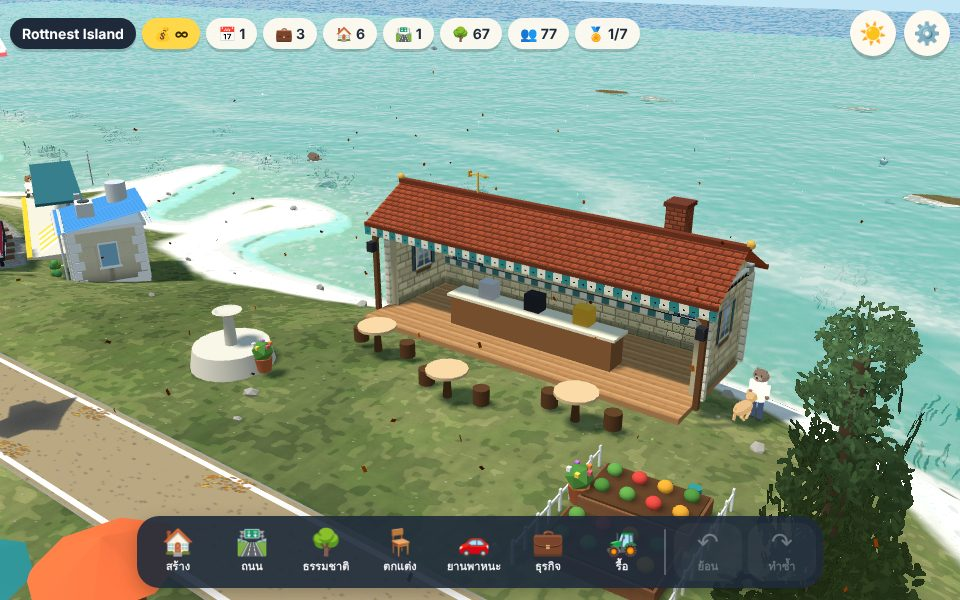
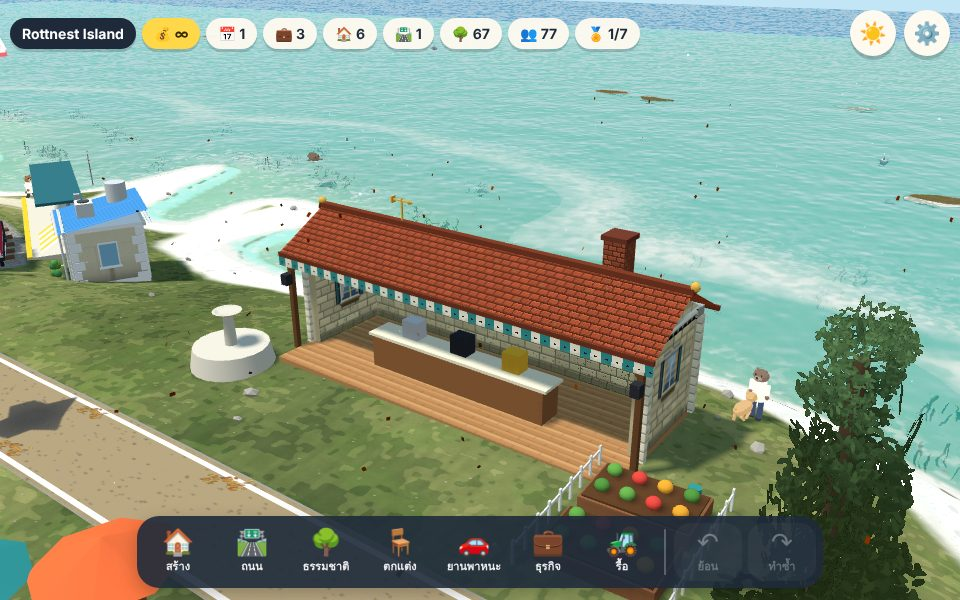
Island Builder café: sits on its own spot on land instead of hanging back over the water, and no tables or planters out front (Paul, 23 Nov 2026)

diff --git a/lib/engines/editor/master.html b/lib/engines/editor/master.html
@@ -1615,7 +1615,7 @@ return{PPM,wall,roof,pane,doorPane,glass,glowDiff,blocks,plaster,bricks,weatherb
    The game's café model (game part 017, CAFE_PX) as an engine, so the Island Builder draws the same café: pixel-kit walls with arched
    windows and shutters, tiled gable roof with chimney and weathervane, striped valance, posts with lanterns, corner planters, the roofed
    plank floor (no deck in front since 23 Nov 2026), the counter with its coffee machines, the QUOKKA CAFE sign and three tables.
-   KipCafe.create({style:'classic'|'cottage'|'riviera'|'ryokan'|'mykonos', gammaOut}) -> {g, style(name), tick(t)}. Needs PXK (pxkit.js).
+   KipCafe.create({style:'classic'|'cottage'|'riviera'|'ryokan'|'mykonos', gammaOut, front:false = no tables or planters out front}) -> {g, style(name), tick(t)}. Needs PXK (pxkit.js).
    Game units (café 10.4 wide), front (open side) faces +z, centre of the old deck at 0,0. */
 (function(){'use strict';
 function create(o){o=o||{};const GAMMA=!!o.gammaOut;const PXB_GLOW=[],PXB_LAMPS=[];
@@ -1684,7 +1684,7 @@ const CAFE_PX=(()=>{const g=new THREE.Group();const parts={};const mats=new Map(
     const tail=new THREE.Mesh(B(.04,.18,.16),gold);tail.position.x=-.3;arrow.add(tail);parts.vane=arrow;}
   // lanterns on the posts and two planters at the deck's front corners
   [-5.3,5.3].forEach(x=>{mesh(B(.22,.3,.22),new THREE.MeshLambertMaterial({color:'#2a2a30'}),x,2.25,RZ+RD/2+.08,{nc:1});const l=mesh(B(.15,.2,.15),new THREE.MeshBasicMaterial({color:'#e8d8a8'}),x,2.25,RZ+RD/2+.08,{nc:1});PXB_LAMPS.push(l);});
-  [[-4.85,3.2],[4.85,3.2]].forEach(([x,z])=>{mesh(new THREE.CylinderGeometry(.24,.18,.4,8),new THREE.MeshLambertMaterial({color:'#b8603a'}),x,.36,z);mesh(new THREE.IcosahedronGeometry(.3,0),new THREE.MeshLambertMaterial({color:'#4f8a3a',flatShading:true}),x,.74,z);
+  (o.front===false?[]:[[-4.85,3.2],[4.85,3.2]]).forEach(([x,z])=>{mesh(new THREE.CylinderGeometry(.24,.18,.4,8),new THREE.MeshLambertMaterial({color:'#b8603a'}),x,.36,z);mesh(new THREE.IcosahedronGeometry(.3,0),new THREE.MeshLambertMaterial({color:'#4f8a3a',flatShading:true}),x,.74,z);
     for(let k=0;k<5;k++)mesh(B(.09,.09,.09),new THREE.MeshLambertMaterial({color:['#e05a6a','#f4d04a','#f0f0f0','#c070e0','#f08a40'][k]}),x+Math.cos(k*1.3)*.22,.92,z+Math.sin(k*1.3)*.22,{nc:1});});
   function style(st){const M=build(st);
     parts.back.material=[M.top,M.top,M.top,M.top,M.back,M.outer];parts.sideL.material=[M.sideL,M.outS,M.top,M.top,M.top,M.top];parts.sideR.material=[M.outS,M.sideR,M.top,M.top,M.top,M.top];
@@ -1699,7 +1699,7 @@ const CAFE_PX=(()=>{const g=new THREE.Group();const parts={};const mats=new Map(
   {const c=document.createElement('canvas');c.width=192;c.height=40;const x=c.getContext('2d');x.fillStyle='#2c3b38';x.fillRect(0,0,192,40);x.fillStyle='#e2c27c';x.fillRect(0,0,192,2);x.fillRect(0,38,192,2);x.fillStyle='#f6ecd6';x.font='bold 24px monospace';x.textAlign='center';x.textBaseline='middle';x.fillText('QUOKKA CAFE',96,21);
     mesh(new THREE.PlaneGeometry(3.6,.75),new THREE.MeshLambertMaterial({map:ctex(c)}),0,2.4,-4.68,{nc:1});}
   const tbl=new THREE.MeshLambertMaterial({color:'#d9b98a'}),leg=new THREE.MeshLambertMaterial({color:'#5a3a22'});
-  [[-3.2,.5],[0,1.4],[3.2,.5]].forEach(([x,z])=>{mesh(new THREE.CylinderGeometry(.55,.55,.08,14),tbl,x,.92,z);mesh(new THREE.CylinderGeometry(.07,.12,.76,8),leg,x,.54,z);[-1,1].forEach(s=>mesh(new THREE.CylinderGeometry(.22,.22,.42,10),leg,x+s*.88,.37,z-.25));});
+  if(o.front!==false)[[-3.2,.5],[0,1.4],[3.2,.5]].forEach(([x,z])=>{mesh(new THREE.CylinderGeometry(.55,.55,.08,14),tbl,x,.92,z);mesh(new THREE.CylinderGeometry(.07,.12,.76,8),leg,x,.54,z);[-1,1].forEach(s=>mesh(new THREE.CylinderGeometry(.22,.22,.42,10),leg,x+s*.88,.37,z-.25));});
   return{g,parts,style,tick(t){if(parts.vane)parts.vane.rotation.y=Math.sin(t*.13)*.8+Math.sin(t*.47)*.15;}};})();
 CAFE_PX.style(o.style||'classic');
 /* a host with an sRGB output step (the builder, labs): plain colours are sRGB, so turn them linear once; the game (gammaOut) keeps them */
@@ -1946,7 +1946,7 @@ function addBld(b){const G=E.bld.build(Object.assign({style:b.s,x:b.x,z:b.z,rot:
    game (read from the game save of the slot the builder was opened from); the kit's stand-in stays only as the footprint for picking */
 function kipCafe(G){if(typeof KipCafe==='undefined')return;try{let st='classic';const sl=(location.search.match(/[?&]slot=(\d+)/)||[])[1];
     if(sl){try{const sv=JSON.parse(localStorage.getItem('quokka-cafe-slot-'+sl)||'null');if(sv&&sv.cafeStyle)st=sv.cafeStyle;}catch(e){}}
-    G.children.forEach(c=>{c.visible=false;});const C=KipCafe.create({style:st});C.g.scale.setScalar(.855/(G.scale.x||1));G.add(C.g);G.userData.kipCafe=C;}catch(e){console.warn('kip cafe',e);}}
+    G.children.forEach(c=>{c.visible=false;});const C=KipCafe.create({style:st,front:false});const k=.855/(G.scale.x||1);C.g.scale.setScalar(k);C.g.position.z=3.4*k;/* the building (z -5..-1.7 in the model) sits on the kit café's own spot, not behind it over the water (Paul, 23 Nov 2026); no tables out front */G.add(C.g);G.userData.kipCafe=C;}catch(e){console.warn('kip cafe',e);}}
 const LAYER_ENG={terr:'Ground',fol:'Plants',sky:'Sky',wl:'Sea life',road:'Roads',bld:'Buildings'};
 function applyLayers(k){const e=E[k],L=doc.layers[k];if(!e||!e.setLayer||!L)return;Object.keys(L).forEach(n=>e.setLayer(n,L[n]));}
 const ORDER=['road','terr','water','wl','props','bld','biz','fol','life','veh','rail'];/* trees after the buildings, so they keep clear of every footprint */

diff --git a/lib/engines/editor/player.html b/lib/engines/editor/player.html
@@ -1615,7 +1615,7 @@ return{PPM,wall,roof,pane,doorPane,glass,glowDiff,blocks,plaster,bricks,weatherb
    The game's café model (game part 017, CAFE_PX) as an engine, so the Island Builder draws the same café: pixel-kit walls with arched
    windows and shutters, tiled gable roof with chimney and weathervane, striped valance, posts with lanterns, corner planters, the roofed
    plank floor (no deck in front since 23 Nov 2026), the counter with its coffee machines, the QUOKKA CAFE sign and three tables.
-   KipCafe.create({style:'classic'|'cottage'|'riviera'|'ryokan'|'mykonos', gammaOut}) -> {g, style(name), tick(t)}. Needs PXK (pxkit.js).
+   KipCafe.create({style:'classic'|'cottage'|'riviera'|'ryokan'|'mykonos', gammaOut, front:false = no tables or planters out front}) -> {g, style(name), tick(t)}. Needs PXK (pxkit.js).
    Game units (café 10.4 wide), front (open side) faces +z, centre of the old deck at 0,0. */
 (function(){'use strict';
 function create(o){o=o||{};const GAMMA=!!o.gammaOut;const PXB_GLOW=[],PXB_LAMPS=[];
@@ -1684,7 +1684,7 @@ const CAFE_PX=(()=>{const g=new THREE.Group();const parts={};const mats=new Map(
     const tail=new THREE.Mesh(B(.04,.18,.16),gold);tail.position.x=-.3;arrow.add(tail);parts.vane=arrow;}
   // lanterns on the posts and two planters at the deck's front corners
   [-5.3,5.3].forEach(x=>{mesh(B(.22,.3,.22),new THREE.MeshLambertMaterial({color:'#2a2a30'}),x,2.25,RZ+RD/2+.08,{nc:1});const l=mesh(B(.15,.2,.15),new THREE.MeshBasicMaterial({color:'#e8d8a8'}),x,2.25,RZ+RD/2+.08,{nc:1});PXB_LAMPS.push(l);});
-  [[-4.85,3.2],[4.85,3.2]].forEach(([x,z])=>{mesh(new THREE.CylinderGeometry(.24,.18,.4,8),new THREE.MeshLambertMaterial({color:'#b8603a'}),x,.36,z);mesh(new THREE.IcosahedronGeometry(.3,0),new THREE.MeshLambertMaterial({color:'#4f8a3a',flatShading:true}),x,.74,z);
+  (o.front===false?[]:[[-4.85,3.2],[4.85,3.2]]).forEach(([x,z])=>{mesh(new THREE.CylinderGeometry(.24,.18,.4,8),new THREE.MeshLambertMaterial({color:'#b8603a'}),x,.36,z);mesh(new THREE.IcosahedronGeometry(.3,0),new THREE.MeshLambertMaterial({color:'#4f8a3a',flatShading:true}),x,.74,z);
     for(let k=0;k<5;k++)mesh(B(.09,.09,.09),new THREE.MeshLambertMaterial({color:['#e05a6a','#f4d04a','#f0f0f0','#c070e0','#f08a40'][k]}),x+Math.cos(k*1.3)*.22,.92,z+Math.sin(k*1.3)*.22,{nc:1});});
   function style(st){const M=build(st);
     parts.back.material=[M.top,M.top,M.top,M.top,M.back,M.outer];parts.sideL.material=[M.sideL,M.outS,M.top,M.top,M.top,M.top];parts.sideR.material=[M.outS,M.sideR,M.top,M.top,M.top,M.top];
@@ -1699,7 +1699,7 @@ const CAFE_PX=(()=>{const g=new THREE.Group();const parts={};const mats=new Map(
   {const c=document.createElement('canvas');c.width=192;c.height=40;const x=c.getContext('2d');x.fillStyle='#2c3b38';x.fillRect(0,0,192,40);x.fillStyle='#e2c27c';x.fillRect(0,0,192,2);x.fillRect(0,38,192,2);x.fillStyle='#f6ecd6';x.font='bold 24px monospace';x.textAlign='center';x.textBaseline='middle';x.fillText('QUOKKA CAFE',96,21);
     mesh(new THREE.PlaneGeometry(3.6,.75),new THREE.MeshLambertMaterial({map:ctex(c)}),0,2.4,-4.68,{nc:1});}
   const tbl=new THREE.MeshLambertMaterial({color:'#d9b98a'}),leg=new THREE.MeshLambertMaterial({color:'#5a3a22'});
-  [[-3.2,.5],[0,1.4],[3.2,.5]].forEach(([x,z])=>{mesh(new THREE.CylinderGeometry(.55,.55,.08,14),tbl,x,.92,z);mesh(new THREE.CylinderGeometry(.07,.12,.76,8),leg,x,.54,z);[-1,1].forEach(s=>mesh(new THREE.CylinderGeometry(.22,.22,.42,10),leg,x+s*.88,.37,z-.25));});
+  if(o.front!==false)[[-3.2,.5],[0,1.4],[3.2,.5]].forEach(([x,z])=>{mesh(new THREE.CylinderGeometry(.55,.55,.08,14),tbl,x,.92,z);mesh(new THREE.CylinderGeometry(.07,.12,.76,8),leg,x,.54,z);[-1,1].forEach(s=>mesh(new THREE.CylinderGeometry(.22,.22,.42,10),leg,x+s*.88,.37,z-.25));});
   return{g,parts,style,tick(t){if(parts.vane)parts.vane.rotation.y=Math.sin(t*.13)*.8+Math.sin(t*.47)*.15;}};})();
 CAFE_PX.style(o.style||'classic');
 /* a host with an sRGB output step (the builder, labs): plain colours are sRGB, so turn them linear once; the game (gammaOut) keeps them */
@@ -1946,7 +1946,7 @@ function addBld(b){const G=E.bld.build(Object.assign({style:b.s,x:b.x,z:b.z,rot:
    game (read from the game save of the slot the builder was opened from); the kit's stand-in stays only as the footprint for picking */
 function kipCafe(G){if(typeof KipCafe==='undefined')return;try{let st='classic';const sl=(location.search.match(/[?&]slot=(\d+)/)||[])[1];
     if(sl){try{const sv=JSON.parse(localStorage.getItem('quokka-cafe-slot-'+sl)||'null');if(sv&&sv.cafeStyle)st=sv.cafeStyle;}catch(e){}}
-    G.children.forEach(c=>{c.visible=false;});const C=KipCafe.create({style:st});C.g.scale.setScalar(.855/(G.scale.x||1));G.add(C.g);G.userData.kipCafe=C;}catch(e){console.warn('kip cafe',e);}}
+    G.children.forEach(c=>{c.visible=false;});const C=KipCafe.create({style:st,front:false});const k=.855/(G.scale.x||1);C.g.scale.setScalar(k);C.g.position.z=3.4*k;/* the building (z -5..-1.7 in the model) sits on the kit café's own spot, not behind it over the water (Paul, 23 Nov 2026); no tables out front */G.add(C.g);G.userData.kipCafe=C;}catch(e){console.warn('kip cafe',e);}}
 const LAYER_ENG={terr:'Ground',fol:'Plants',sky:'Sky',wl:'Sea life',road:'Roads',bld:'Buildings'};
 function applyLayers(k){const e=E[k],L=doc.layers[k];if(!e||!e.setLayer||!L)return;Object.keys(L).forEach(n=>e.setLayer(n,L[n]));}
 const ORDER=['road','terr','water','wl','props','bld','biz','fol','life','veh','rail'];/* trees after the buildings, so they keep clear of every footprint */

diff --git a/lib/engines/cafe/kipcafe.js b/lib/engines/cafe/kipcafe.js
@@ -2,7 +2,7 @@
    The game's café model (game part 017, CAFE_PX) as an engine, so the Island Builder draws the same café: pixel-kit walls with arched
    windows and shutters, tiled gable roof with chimney and weathervane, striped valance, posts with lanterns, corner planters, the roofed
    plank floor (no deck in front since 23 Nov 2026), the counter with its coffee machines, the QUOKKA CAFE sign and three tables.
-   KipCafe.create({style:'classic'|'cottage'|'riviera'|'ryokan'|'mykonos', gammaOut}) -> {g, style(name), tick(t)}. Needs PXK (pxkit.js).
+   KipCafe.create({style:'classic'|'cottage'|'riviera'|'ryokan'|'mykonos', gammaOut, front:false = no tables or planters out front}) -> {g, style(name), tick(t)}. Needs PXK (pxkit.js).
    Game units (café 10.4 wide), front (open side) faces +z, centre of the old deck at 0,0. */
 (function(){'use strict';
 function create(o){o=o||{};const GAMMA=!!o.gammaOut;const PXB_GLOW=[],PXB_LAMPS=[];
@@ -71,7 +71,7 @@ const CAFE_PX=(()=>{const g=new THREE.Group();const parts={};const mats=new Map(
     const tail=new THREE.Mesh(B(.04,.18,.16),gold);tail.position.x=-.3;arrow.add(tail);parts.vane=arrow;}
   // lanterns on the posts and two planters at the deck's front corners
   [-5.3,5.3].forEach(x=>{mesh(B(.22,.3,.22),new THREE.MeshLambertMaterial({color:'#2a2a30'}),x,2.25,RZ+RD/2+.08,{nc:1});const l=mesh(B(.15,.2,.15),new THREE.MeshBasicMaterial({color:'#e8d8a8'}),x,2.25,RZ+RD/2+.08,{nc:1});PXB_LAMPS.push(l);});
-  [[-4.85,3.2],[4.85,3.2]].forEach(([x,z])=>{mesh(new THREE.CylinderGeometry(.24,.18,.4,8),new THREE.MeshLambertMaterial({color:'#b8603a'}),x,.36,z);mesh(new THREE.IcosahedronGeometry(.3,0),new THREE.MeshLambertMaterial({color:'#4f8a3a',flatShading:true}),x,.74,z);
+  (o.front===false?[]:[[-4.85,3.2],[4.85,3.2]]).forEach(([x,z])=>{mesh(new THREE.CylinderGeometry(.24,.18,.4,8),new THREE.MeshLambertMaterial({color:'#b8603a'}),x,.36,z);mesh(new THREE.IcosahedronGeometry(.3,0),new THREE.MeshLambertMaterial({color:'#4f8a3a',flatShading:true}),x,.74,z);
     for(let k=0;k<5;k++)mesh(B(.09,.09,.09),new THREE.MeshLambertMaterial({color:['#e05a6a','#f4d04a','#f0f0f0','#c070e0','#f08a40'][k]}),x+Math.cos(k*1.3)*.22,.92,z+Math.sin(k*1.3)*.22,{nc:1});});
   function style(st){const M=build(st);
     parts.back.material=[M.top,M.top,M.top,M.top,M.back,M.outer];parts.sideL.material=[M.sideL,M.outS,M.top,M.top,M.top,M.top];parts.sideR.material=[M.outS,M.sideR,M.top,M.top,M.top,M.top];
@@ -86,7 +86,7 @@ const CAFE_PX=(()=>{const g=new THREE.Group();const parts={};const mats=new Map(
   {const c=document.createElement('canvas');c.width=192;c.height=40;const x=c.getContext('2d');x.fillStyle='#2c3b38';x.fillRect(0,0,192,40);x.fillStyle='#e2c27c';x.fillRect(0,0,192,2);x.fillRect(0,38,192,2);x.fillStyle='#f6ecd6';x.font='bold 24px monospace';x.textAlign='center';x.textBaseline='middle';x.fillText('QUOKKA CAFE',96,21);
     mesh(new THREE.PlaneGeometry(3.6,.75),new THREE.MeshLambertMaterial({map:ctex(c)}),0,2.4,-4.68,{nc:1});}
   const tbl=new THREE.MeshLambertMaterial({color:'#d9b98a'}),leg=new THREE.MeshLambertMaterial({color:'#5a3a22'});
-  [[-3.2,.5],[0,1.4],[3.2,.5]].forEach(([x,z])=>{mesh(new THREE.CylinderGeometry(.55,.55,.08,14),tbl,x,.92,z);mesh(new THREE.CylinderGeometry(.07,.12,.76,8),leg,x,.54,z);[-1,1].forEach(s=>mesh(new THREE.CylinderGeometry(.22,.22,.42,10),leg,x+s*.88,.37,z-.25));});
+  if(o.front!==false)[[-3.2,.5],[0,1.4],[3.2,.5]].forEach(([x,z])=>{mesh(new THREE.CylinderGeometry(.55,.55,.08,14),tbl,x,.92,z);mesh(new THREE.CylinderGeometry(.07,.12,.76,8),leg,x,.54,z);[-1,1].forEach(s=>mesh(new THREE.CylinderGeometry(.22,.22,.42,10),leg,x+s*.88,.37,z-.25));});
   return{g,parts,style,tick(t){if(parts.vane)parts.vane.rotation.y=Math.sin(t*.13)*.8+Math.sin(t*.47)*.15;}};})();
 CAFE_PX.style(o.style||'classic');
 /* a host with an sRGB output step (the builder, labs): plain colours are sRGB, so turn them linear once; the game (gammaOut) keeps them */

diff --git a/lib/engines/editor/editor.js b/lib/engines/editor/editor.js
@@ -236,7 +236,7 @@ function addBld(b){const G=E.bld.build(Object.assign({style:b.s,x:b.x,z:b.z,rot:
    game (read from the game save of the slot the builder was opened from); the kit's stand-in stays only as the footprint for picking */
 function kipCafe(G){if(typeof KipCafe==='undefined')return;try{let st='classic';const sl=(location.search.match(/[?&]slot=(\d+)/)||[])[1];
     if(sl){try{const sv=JSON.parse(localStorage.getItem('quokka-cafe-slot-'+sl)||'null');if(sv&&sv.cafeStyle)st=sv.cafeStyle;}catch(e){}}
-    G.children.forEach(c=>{c.visible=false;});const C=KipCafe.create({style:st});C.g.scale.setScalar(.855/(G.scale.x||1));G.add(C.g);G.userData.kipCafe=C;}catch(e){console.warn('kip cafe',e);}}
+    G.children.forEach(c=>{c.visible=false;});const C=KipCafe.create({style:st,front:false});const k=.855/(G.scale.x||1);C.g.scale.setScalar(k);C.g.position.z=3.4*k;/* the building (z -5..-1.7 in the model) sits on the kit café's own spot, not behind it over the water (Paul, 23 Nov 2026); no tables out front */G.add(C.g);G.userData.kipCafe=C;}catch(e){console.warn('kip cafe',e);}}
 const LAYER_ENG={terr:'Ground',fol:'Plants',sky:'Sky',wl:'Sea life',road:'Roads',bld:'Buildings'};
 function applyLayers(k){const e=E[k],L=doc.layers[k];if(!e||!e.setLayer||!L)return;Object.keys(L).forEach(n=>e.setLayer(n,L[n]));}
 const ORDER=['road','terr','water','wl','props','bld','biz','fol','life','veh','rail'];/* trees after the buildings, so they keep clear of every footprint */
